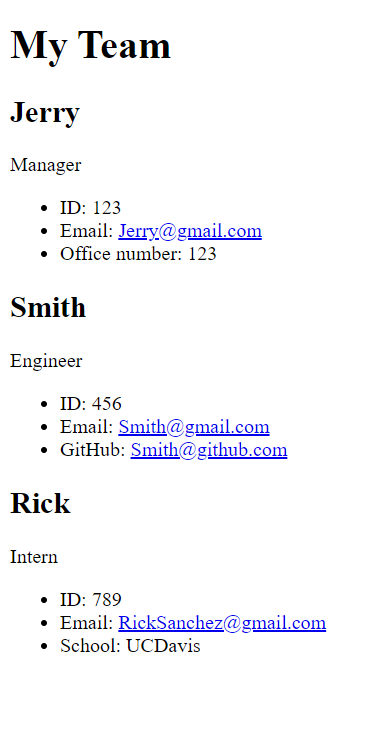
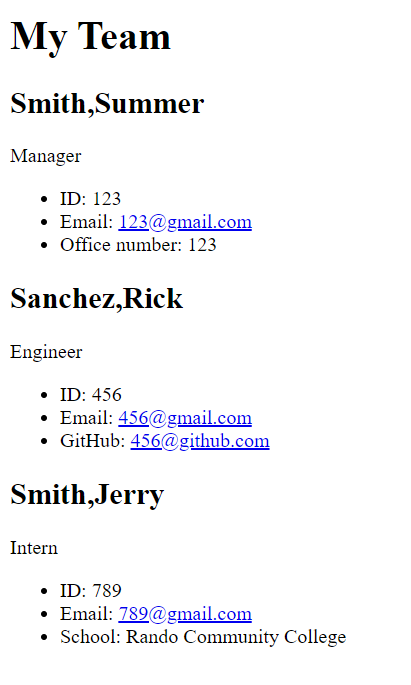
added link and new photos to readme

diff --git a/dist/fullteam.html b/dist/fullteam.html
@@ -1,0 +1,50 @@
+
+    <!DOCTYPE html>
+    <html lang="en">
+      <head>
+        <meta charset="UTF-8" />
+        <meta name="viewport" content="width=device-width, initial-scale=1.0" />
+        <title>My Team</title>
+      </head>
+      <body>
+        <header>
+          <h1>My Team</h1>
+        </header>
+        <main>
+          <div class="team-members">
+            
+              <div class="member">
+                <h2>Smith,Summer</h2>
+                <p>Manager</p>
+                <ul>
+                  <li>ID: 123</li>
+                  <li>Email: <a href="mailto:123@gmail.com">123@gmail.com</a></li>
+                  <li>Office number: 123</li>
+                </ul>
+              </div>
+            
+              <div class="member">
+                <h2>Sanchez,Rick</h2>
+                <p>Engineer</p>
+                <ul>
+                  <li>ID: 456</li>
+                  <li>Email: <a href="mailto:456@gmail.com">456@gmail.com</a></li>
+                  <li>GitHub: <a href="https://github.com/456@github.com">456@github.com</a></li>
+                </ul>
+              </div>
+            
+              <div class="member">
+                <h2>Smith,Jerry</h2>
+                <p>Intern</p>
+                <ul>
+                  <li>ID: 789</li>
+                  <li>Email: <a href="mailto:789@gmail.com">789@gmail.com</a></li>
+                  <li>School: Rando Community College</li>
+                </ul>
+              </div>
+            
+          </div>
+        </main>
+      </body>
+    </html>
+  

diff --git a/Readme.md b/Readme.md
@@ -29,7 +29,7 @@
  - Github - @Vtsander
  - Email - nguyenveroneca@yahoo.com
 ## Link
- - https://drive.google.com/file/d/1G4jQFl1iJXgmc14fQCl9gtywZyFZDf4_/view
+ - https://drive.google.com/file/d/1nFsz-ONKqiHx0giPANc2_MreLdF2RN1b/view
 ## Photos of Project
  - <img src="./assets/TeamGen.png">
  - <img src="./assets/TeamGenNode.png">
